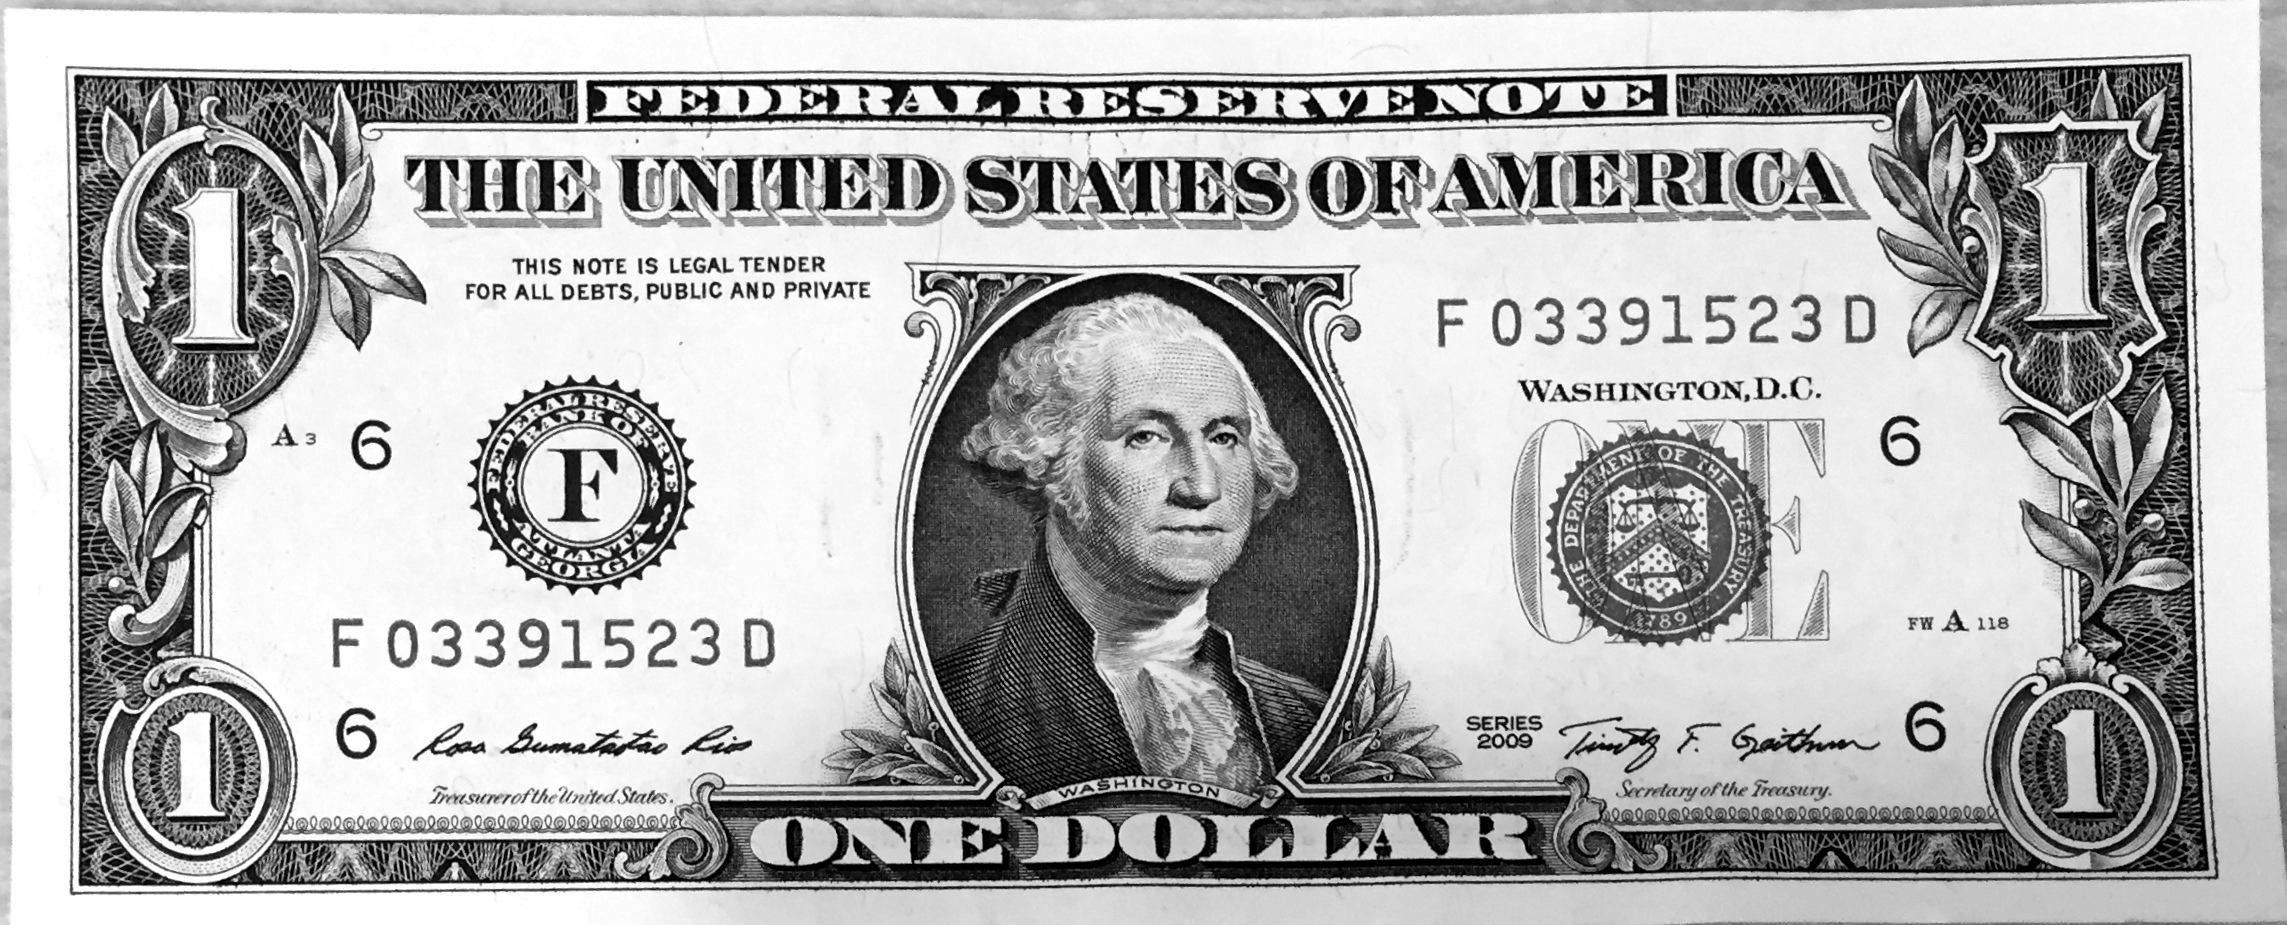
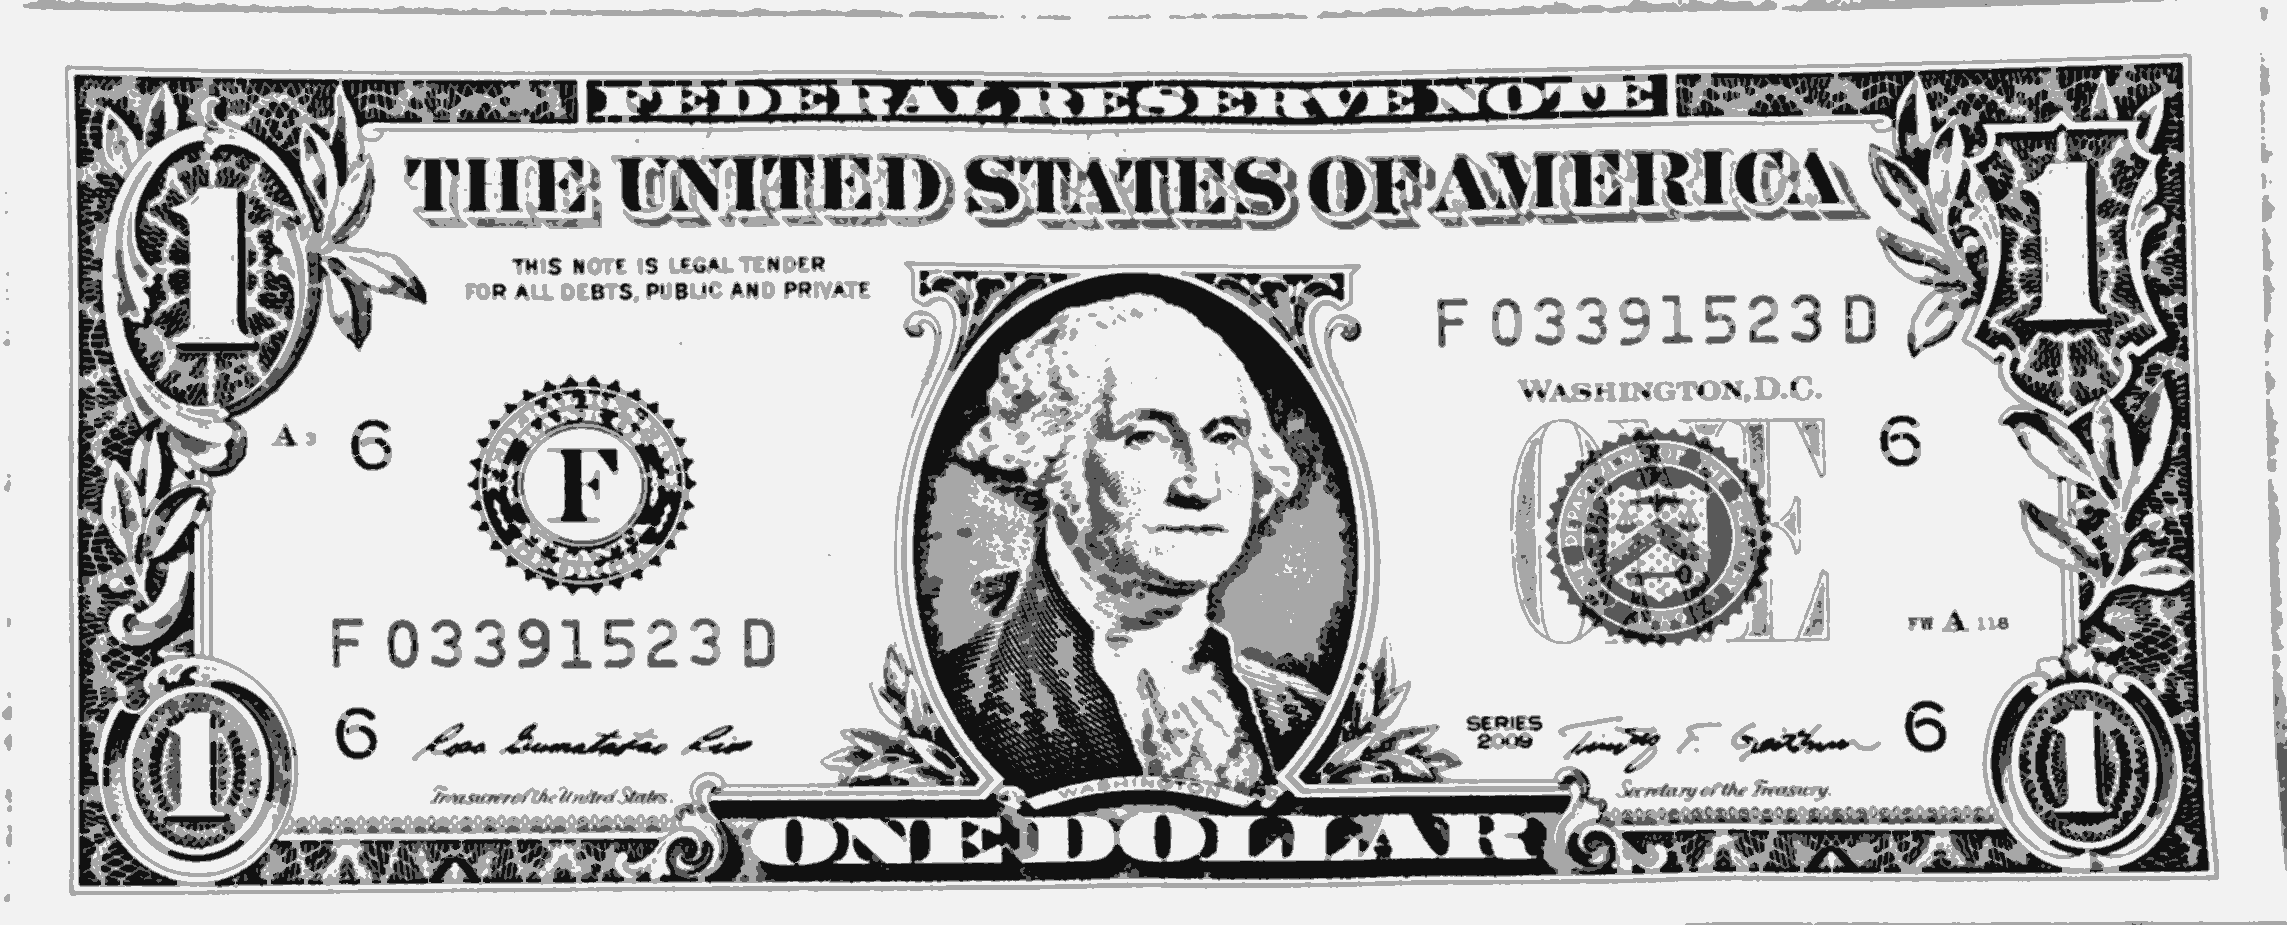
Improve adaptive BW filter quantization

diff --git a/scripts/filter_asset_pipeline.py b/scripts/filter_asset_pipeline.py
@@ -13,8 +13,8 @@ FILTERS = {
         "ops": [("contrast", 1.4), ("brightness", 1.05)],
     },
     "bw": {
-        # grayscale(1) contrast(1.3)
-        "ops": [("grayscale", 1.0), ("contrast", 1.3)],
+        # illumination correction + Sauvola-like text mask + multitone grayscale quantization
+        "pipeline": "document_bw",
     },
     "whiteboard": {
         # brightness(1.3) contrast(1.6) saturate(0)
@@ -603,6 +603,199 @@ def blend_toward_value(channel: np.ndarray, mask: np.ndarray, target: float, str
     return np.clip(blended, 0, 255).astype(np.uint8)
 
 
+def compute_local_mean_std(
+    luminance: np.ndarray,
+    window_size: int = 31,
+) -> tuple[np.ndarray, np.ndarray]:
+    source = luminance.astype(np.float32)
+    mean = cv2.boxFilter(
+        source,
+        cv2.CV_32F,
+        (window_size, window_size),
+        normalize=True,
+        borderType=cv2.BORDER_REPLICATE,
+    )
+    sq_mean = cv2.boxFilter(
+        source * source,
+        cv2.CV_32F,
+        (window_size, window_size),
+        normalize=True,
+        borderType=cv2.BORDER_REPLICATE,
+    )
+    variance = np.maximum(sq_mean - mean * mean, 0.0)
+    stddev = np.sqrt(variance)
+    return mean, stddev
+
+
+def build_sauvola_structure_masks(
+    luminance: np.ndarray,
+    window_size: int = 31,
+    k: float = 0.18,
+    dynamic_range: float = 128.0,
+) -> tuple[np.ndarray, np.ndarray]:
+    source = luminance.astype(np.float32)
+    mean, stddev = compute_local_mean_std(luminance, window_size=window_size)
+    threshold = mean * (1.0 + k * (stddev / dynamic_range - 1.0))
+    delta = mean - source
+    candidate = source <= threshold
+    soft = np.logical_and(candidate, delta >= np.maximum(10.0, stddev * 0.22))
+    strong = np.logical_and(candidate, delta >= np.maximum(22.0, stddev * 0.40))
+    return (soft.astype(np.uint8) * 255, strong.astype(np.uint8) * 255)
+
+
+def quantize_luminance(
+    luminance: np.ndarray,
+    thresholds: list[int],
+    levels: list[int],
+) -> np.ndarray:
+    bins = np.digitize(luminance, thresholds, right=False)
+    palette = np.asarray(levels, dtype=np.uint8)
+    return palette[bins]
+
+
+def build_quantization_sample(luminance: np.ndarray) -> np.ndarray:
+    values = luminance.reshape(-1)
+    darker = values[values < 224]
+    brighter = values[values >= 224]
+
+    max_brighter = min(len(brighter), max(len(darker) * 2, 12000))
+    if len(brighter) > max_brighter and max_brighter > 0:
+        brighter = np.sort(brighter)[np.linspace(0, len(brighter) - 1, max_brighter, dtype=int)]
+
+    sample = np.concatenate([darker, brighter]) if len(darker) else values
+    if len(sample) > 50000:
+        sample = np.sort(sample)[np.linspace(0, len(sample) - 1, 50000, dtype=int)]
+    return sample.astype(np.float32)
+
+
+def estimate_bw_tone_count(luminance: np.ndarray) -> int:
+    values = luminance.reshape(-1)
+    q10, q50 = np.percentile(values, [10, 50])
+    low_tail = q50 - q10
+    mid_ratio = float(np.mean((values >= 96) & (values < 220)))
+
+    if q10 >= 232 and low_tail < 12:
+        return 2
+    if q10 >= 185 and low_tail < 60 and mid_ratio < 0.12:
+        return 3
+    return 4
+
+
+def fit_quantization_levels(sample: np.ndarray, tone_count: int) -> list[int]:
+    if tone_count == 2:
+        threshold, _ = cv2.threshold(
+            sample.reshape(-1, 1).astype(np.uint8),
+            0,
+            255,
+            cv2.THRESH_BINARY + cv2.THRESH_OTSU,
+        )
+        dark_level = int(max(16, min(48, threshold * 0.30)))
+        return [dark_level, 244]
+
+    criteria = (cv2.TERM_CRITERIA_EPS + cv2.TERM_CRITERIA_MAX_ITER, 32, 0.2)
+    compactness, labels, centers = cv2.kmeans(
+        sample.reshape(-1, 1),
+        tone_count,
+        None,
+        criteria,
+        4,
+        cv2.KMEANS_PP_CENTERS,
+    )
+    _ = compactness, labels
+    ordered = sorted(int(round(value)) for value in centers.flatten())
+
+    if tone_count == 3:
+        ordered[0] = max(16, min(52, ordered[0]))
+        ordered[1] = max(112, min(188, ordered[1]))
+        ordered[2] = max(236, ordered[2])
+    else:
+        ordered[0] = max(16, min(56, ordered[0]))
+        ordered[1] = max(72, min(132, ordered[1]))
+        ordered[2] = max(136, min(196, ordered[2]))
+        ordered[3] = max(236, ordered[3])
+
+    deduped = []
+    for level in ordered:
+        if deduped and level <= deduped[-1]:
+            level = min(244, deduped[-1] + 8)
+        deduped.append(level)
+    return deduped
+
+
+def quantize_with_levels(luminance: np.ndarray, levels: list[int]) -> np.ndarray:
+    thresholds = [int(round((left + right) / 2.0)) for left, right in zip(levels, levels[1:])]
+    return quantize_luminance(luminance, thresholds, levels)
+
+
+def apply_document_bw_pipeline(image: np.ndarray) -> np.ndarray:
+    original_height, original_width = image.shape[:2]
+    upscale = max(original_width, original_height) < 1400
+    working = image
+    if upscale:
+        working = cv2.resize(
+            image,
+            (original_width * 2, original_height * 2),
+            interpolation=cv2.INTER_CUBIC,
+        )
+
+    rgb = cv2.cvtColor(working, cv2.COLOR_BGR2RGB)
+    lab = cv2.cvtColor(rgb, cv2.COLOR_RGB2LAB)
+    luminance, a_channel, b_channel = cv2.split(lab)
+
+    illumination = estimate_illumination(luminance)
+    flattened_l = flat_field_correct(luminance, illumination)
+    stretched_l = auto_stretch_luminance(flattened_l)
+    denoised_l = cv2.medianBlur(stretched_l, 3)
+    emphasized_l = apply_channel_contrast(denoised_l, 1.48)
+
+    paper_mask = build_paper_mask(denoised_l, a_channel, b_channel)
+    soft_structure, strong_structure = build_sauvola_structure_masks(emphasized_l)
+    _, dark_mask = cv2.threshold(
+        denoised_l,
+        max(70, int(np.percentile(denoised_l, 12))),
+        255,
+        cv2.THRESH_BINARY_INV,
+    )
+    strong_structure = cv2.bitwise_or(strong_structure, dark_mask)
+    kernel3 = cv2.getStructuringElement(cv2.MORPH_ELLIPSE, (3, 3))
+    soft_structure = cv2.dilate(soft_structure, kernel3, iterations=1)
+    strong_structure = cv2.dilate(strong_structure, kernel3, iterations=1)
+    structure_mask = cv2.bitwise_or(soft_structure, strong_structure)
+    structure_mask = cv2.medianBlur(structure_mask, 3)
+    paper_mask = cv2.bitwise_and(paper_mask, cv2.bitwise_not(structure_mask))
+    paper_mask = cv2.morphologyEx(
+        paper_mask,
+        cv2.MORPH_CLOSE,
+        cv2.getStructuringElement(cv2.MORPH_ELLIPSE, (5, 5)),
+        iterations=2,
+    )
+
+    toned_l = blend_toward_value(emphasized_l, paper_mask, 246.0, 0.44)
+    toned_l32 = toned_l.astype(np.float32)
+    structure_idx = structure_mask > 0
+    toned_l32[structure_idx] = np.minimum(toned_l32[structure_idx], emphasized_l[structure_idx].astype(np.float32) * 0.92)
+    toned_l = np.clip(toned_l32, 0, 255).astype(np.uint8)
+    _, bright_background = cv2.threshold(toned_l, 182, 255, cv2.THRESH_BINARY)
+    bright_background = cv2.bitwise_and(bright_background, cv2.bitwise_not(structure_mask))
+    toned_l = blend_toward_value(toned_l, bright_background, 236.0, 0.32)
+    quantize_source = cv2.GaussianBlur(toned_l, (3, 3), 0)
+    tone_count = estimate_bw_tone_count(quantize_source)
+    sample = build_quantization_sample(quantize_source)
+    levels = fit_quantization_levels(sample, tone_count)
+    quantized = quantize_with_levels(quantize_source, levels)
+
+    if tone_count >= 3:
+        paper_floor = levels[-2]
+        quantized[paper_mask > 0] = np.maximum(quantized[paper_mask > 0], paper_floor)
+    else:
+        quantized[paper_mask > 0] = levels[-1]
+
+    bw = cv2.merge([quantized, quantized, quantized])
+    if upscale:
+        bw = cv2.resize(bw, (original_width, original_height), interpolation=cv2.INTER_AREA)
+    return bw
+
+
 def apply_magic_pipeline(cropped: np.ndarray) -> tuple[np.ndarray, np.ndarray]:
     rgb = cv2.cvtColor(cropped, cv2.COLOR_BGR2RGB)
     lab = cv2.cvtColor(rgb, cv2.COLOR_RGB2LAB)
@@ -669,6 +862,12 @@ def apply_contrast(image: np.ndarray, value: float) -> np.ndarray:
     return np.clip(result, 0, 255).astype(np.uint8)
 
 
+def apply_channel_contrast(channel: np.ndarray, value: float) -> np.ndarray:
+    offset = 128.0 * (1.0 - value)
+    result = channel.astype(np.float32) * value + offset
+    return np.clip(result, 0, 255).astype(np.uint8)
+
+
 def apply_grayscale(image: np.ndarray, _value: float) -> np.ndarray:
     b, g, r = cv2.split(image)
     gray = (
@@ -712,6 +911,8 @@ OP_DISPATCH = {
 
 def apply_filter(image: np.ndarray, filter_key: str) -> np.ndarray:
     spec = FILTERS[filter_key]
+    if spec.get("pipeline") == "document_bw":
+        return apply_document_bw_pipeline(image)
     result = image.copy()
     for op_name, op_value in spec["ops"]:
         result = OP_DISPATCH[op_name](result, op_value)
